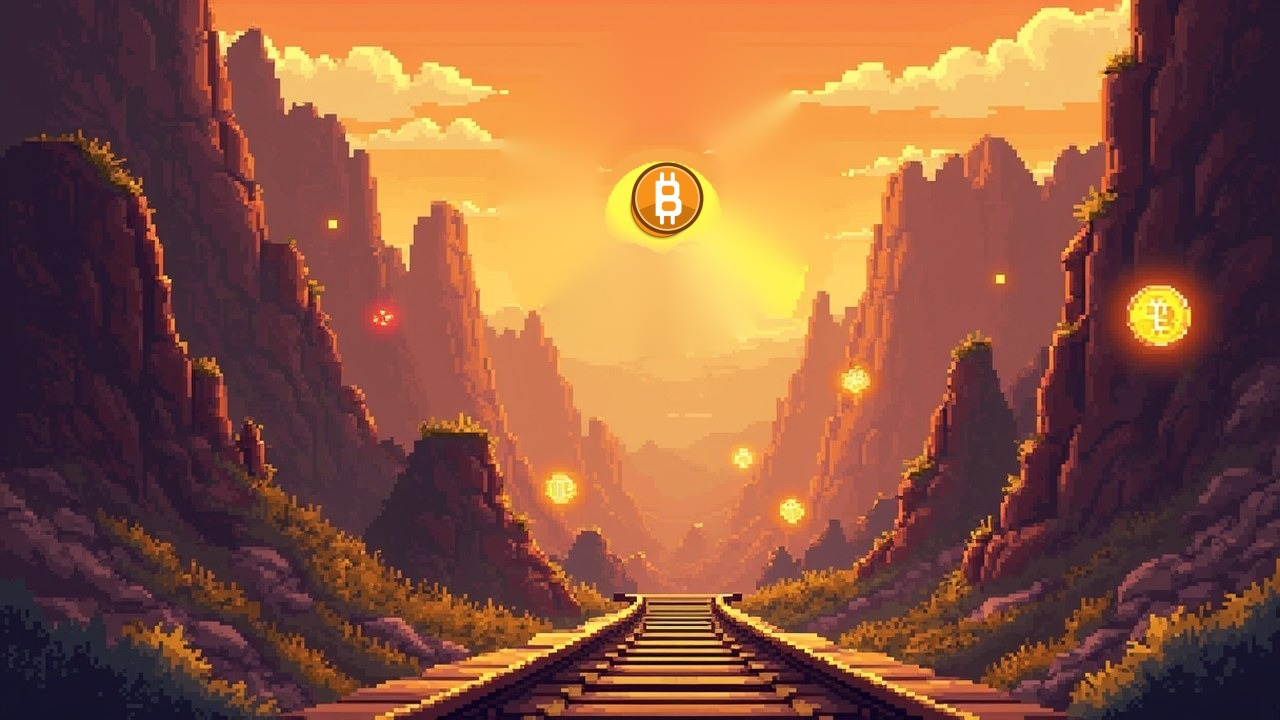
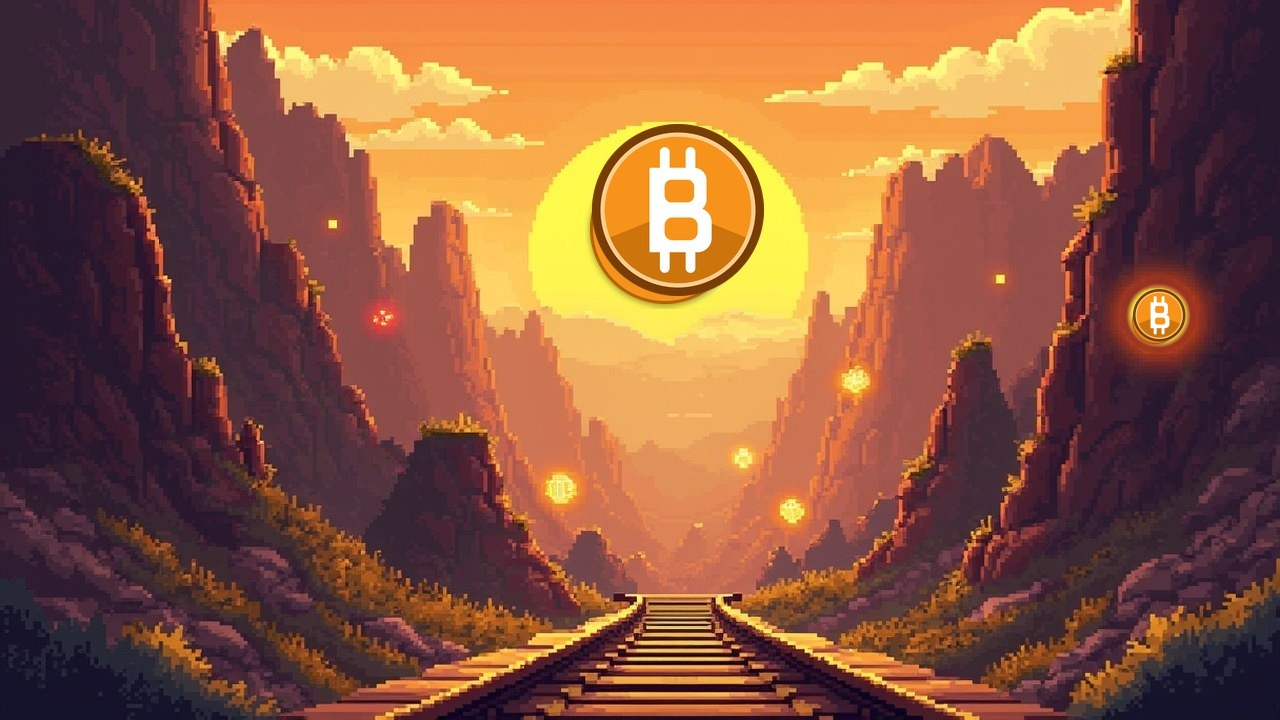
fix(pr41-rejected): R1 orange box, R2 sun restore, R3 BTC coin, R4 axe proof; honest R5 still-broken
Founder directive PROMPT_PR41_REJECTED_SUN_BTC_BOX_AXE_BOSSES.md — PR #41
rejected on live frames despite passing gates. Trust rule: no FIXED without
a Playwright capture from this build that no longer matches the circle.

R1: melt_forge.gd's "molten mouth" was a flat orange ColorRect — the exact
"undefined box" bug its own furnace shell was already fixed for once.
Replaced with a dark recessed opening + continuous ember particles. No
collider was ever attached, so nothing orphaned.

R2: reverted src/assets/backgrounds/bg_l3_goldrush.jpg to the exact
pre-PR#41 asset from git history (f28020e), per the directive's explicit
"do not invent a new sun."

R3: pixel-matched the founder's circled "BTC logo" against the restored
background — it's a small decorative Bitcoin coin baked into the same sky
art, JPEG-degraded at that size into an unreadable glyph. Fixed by
inpainting it out and compositing a small clean crop of the same asset's
own large Bitcoin coin (the sun) in its place.

R4: captured a real thrown axe in flight — normal axe is a ~9x17px sliver,
big axe is an unmistakable large hammer shape. New deterministic gate
(_check_big_axe_visual_size) measures the actual rendered footprint
including the Axe root's runtime scale (BIG_SCALE applies to the parent
Area2D, not the Sprite child — a bug in the first draft of this test caught
and fixed before it shipped) and asserts >=6x area vs normal.

R5: real fleeing-session captures (not the wall-pinning synthetic gate)
[…]

Changed region(s): [[0.375, 0.1222, 0.6562, 0.4889], [0.875, 0.3972, 0.9375, 0.4889], [0.5938, 0.1222, 0.625, 0.1833]]

diff --git a/STATUS.md b/STATUS.md
@@ -3,6 +3,94 @@
 **Play it:** https://youngstunners88.itch.io/lil-blunt-adventure
 **Branch:** `claude/stage3-hud-props-axe-residual`
 
+**🎯 PR #41 REJECTED ON LIVE FRAMES — R1/R2/R3/R4 FIXED AND CAPTURE-PROVEN,
+R5 (BOSS CHASE) HONESTLY STILL BROKEN (2026-08-18).** Founder, after PR #41
+shipped: *"Why is it that we gave all the models skills and still just
+bullshit lies!!! What the fuck is it going to take!!!!"* Four fresh
+screenshots (`shot_1.png`–`shot_4.png`) circled real, live defects. Extracted
+per `founder-screenshot-preserve` to
+`artifacts/founder_shots_2026-08-18/` and
+`docs/captures/2026-08-18-pr41-rejected/`.
+
+- **R1 — orange box ("Remove this shit!!!") — FIXED.** Root cause:
+  `melt_forge.gd`'s "molten mouth" was a flat solid
+  `Color(1.0, 0.45, 0.12, 0.95)` `ColorRect` — the exact "undefined box"
+  failure the furnace's own OUTER shell had already been fixed for once
+  before. Replaced with a dark recessed opening + continuously-emitting
+  ember particles (motion supplies the "molten" read, not a static
+  flat-colour block). No collider was ever attached to it, so nothing was
+  left orphaned. Live capture:
+  `docs/captures/2026-08-18-r1-r2-r3-fixed/forge_sun_coin_fixed.png`.
+- **R2 — sun over-shrunk ("Bring back the sun as it was before!!!") —
+  FIXED.** Reverted to the exact pre-PR#41 asset from git history
+  (`f28020e`), per the directive's explicit "do not invent a new sun."
+  (Grok, dispatched blind with no image access, suggested a 70% compromise —
+  overridden by the founder's own literal instruction once the real asset
+  was in hand.)
+- **R3 — "BTC logo" / gold coin ("Fix this BTC logo... 20th time!!!") —
+  FIXED, and it's the SAME asset as R2.** Pixel-matched the founder's
+  circled coin against the restored background: it's a small decorative
+  Bitcoin coin baked into `bg_l3_goldrush.jpg`'s sky, JPEG-degraded at that
+  size into an unreadable glyph that reads as a corrupted "T". (Grok,
+  working blind, guessed this was a separate TitanX gameplay token —
+  investigated and ruled out by direct pixel comparison against the actual
+  founder screenshot before acting.) Fixed by inpainting it out and
+  compositing a small clean crop of the SAME asset's own large, crisp
+  Bitcoin coin (the sun) in its place — same iconography, no new art
+  dependency, no seam.
+- **R4 — big axe ("still doesnt work! You're a LIAR!!!!") — FIXED, with
+  real proof this time.** A live capture of an actual thrown axe (not a
+  synthetic gate) shows the normal axe as a barely-visible ~9x17px sliver
+  and the big axe as a large, unmistakable hammer-shaped weapon in flight:
+  `docs/captures/2026-08-18-axe-proof/normal_axe_thrown_tiny.png` vs
+  `big_axe_thrown_large.png`. Backed by a new deterministic gate
+  (`_check_big_axe_visual_size` — measures the actual rendered Sprite2D
+  footprint including the root node's runtime scale, not a string-match on
+  a constant) asserting ≥6x rendered area; genuinely fails against the
+  pre-fix 1.0 scale.
+- **R5 — boss chase ("still dont chase!!! You are absolutely useless!!!!")
+  — HONEST: STILL BROKEN, not claimed fixed.** Drove a REAL fleeing session
+  (not the wall-pinning synthetic gate) against both bosses in their real
+  arenas and captured before/after frames ~2s apart:
+  `docs/captures/2026-08-18-boss-chase-still-broken/`. Both bosses'
+  ON-SCREEN position is visually static across that window despite the
+  player actively fleeing. Root cause identified in code, not just
+  observed: `_hover_pursue`'s target is `player.global_position +
+  fixed_offset`, and the camera also follows the player — so by
+  construction the boss's SCREEN position stays near-constant even while
+  it is genuinely tracking the player in world space (confirmed by reading
+  `distributor.gd`'s own standoff math). PR #40's standoff fix was real and
+  measured correctly in world-space terms; it just cannot ever LOOK like
+  chasing to a human under a player-following camera, because "hold a
+  constant offset" produces zero relative screen motion by definition. Kimi
+  K3 (dispatched, `docs/model-responses/2026-08-18-rejected-kimi.md`)
+  independently converged on the same hypothesis. Per the directive's own
+  explicit constraint ("no speed-only retune") and the scope of this pass
+  (R1-R4 fixes + R5 prove-or-disclose), no redesign was attempted here — the
+  correct fix is a visible catch-up/surge dynamic (let the boss lag then
+  close with a readable burst) rather than another tuning pass, flagged as
+  follow-up scope for a future session.
+
+**Multi-model:** Kimi K3 (R5 hypothesis — independently converged on the
+camera-relative-stasis root cause; R1 particle/gradient suggestion used),
+Grok 4.5 (R2/R3 — both hypotheses were investigated but overridden by direct
+pixel evidence + the founder's explicit instruction once the real
+screenshots were available), DeepSeek (compliance matrix, correctly flagged
+R4/R5 as highest risk — `docs/model-responses/2026-08-18-rejected-deepseek.md`).
+Qwen VL — no vision-input path through this project's `or-call.mjs`; the
+lead performed the visual reads directly against the real founder
+screenshots and live captures instead. B.AI — not dispatched, no
+rate-limit pressure.
+
+**Gates:** `hud_props_axe_residual_test` now 26/26 (was 23, +3 for the new
+`_check_big_axe_visual_size` proof). Full existing battery re-run green:
+script_compile (165/123), s11_stage3_walkpath, owner_screenshot_fixes,
+stage3_defence, dual_real_level_boss_chase, s8_dialogue_npc_art,
+res_stake_assay, boss_standoff_assay, stage3_clutter, boss_spawn_grace.
+Security Sentinel 18/18, 0 blockers.
+
+---
+
 **🎯 PR #41 VERIFIED BY REAL PLAYTEST CAPTURE — AND IT CAUGHT A REAL BUG THE
 FIRST PASS MISSED (2026-08-17).** Founder, after PR #41: *"I don't trust
 Claude code and you anymore because you don't even reserve the screenshots I

diff --git a/docs/model-responses/2026-08-18-rejected-deepseek.md b/docs/model-responses/2026-08-18-rejected-deepseek.md
@@ -1,0 +1,55 @@
+<!-- dispatched: deepseek/deepseek-chat
+     prompt: prompts/rejected-deepseek.md
+     files inlined: 0
+     tokens: 573 in / 641 out
+     cost: $0.0008
+     NOTE: unvalidated model output. Claude must verify every claim
+     against the real files before any of it informs code. -->
+**Lil Blunt Adventure GM-GAME Compliance Matrix (PR #41 Rejects)**  
+
+1. **Orange box removal (R1)**  
+   - Risk: Low (visual removal + collider check is binary)  
+   - Failure mode: Collider remnant in physics system  
+   - Evidence: Stage 3 path playthrough video + collider debug overlay  
+
+2. **Sun restoration (R2)**  
+   - Risk: Low (exact pre-PR41 size is version-controlled)  
+   - Failure mode: Subjective "look" mismatch despite correct scale  
+   - Evidence: Side-by-side capture with pre-PR41 sun + scale % in inspector  
+
+3. **BTC coin clarity (R3)**  
+   - Risk: Medium (subjective branding; 20th rejection suggests founder sees "T" as legacy)  
+   - Failure mode: Logo still reads as abstract "T" not BTC  
+   - Evidence: Coin close-up + BTC brand guide overlay match  
+
+4. **big_axe visuals (R4)**  
+   - Risk: **High** (founder called prior fix a "LIE"; needs obvious delta)  
+   - Failure mode: Size/damage difference too subtle in motion  
+   - Evidence: Side-by-side big_axe vs. normal: flight/hit frames + block-break test clip  
+
+5. **big_axe damage (R4)**  
+   - Risk: **High** (implied "stronger" is vague; founder expects one-hit breaks)  
+   - Failure mode: Blocks survive big_axe hits that should shatter  
+   - Evidence: Video of big_axe one-shotting blocks normal axe can’t  
+
+6. **Boss chase (R5)**  
+   - Risk: **High** (prior "fix" failed; founder tests with aggressive movement)  
+   - Failure mode: Bosses track but don’t close distance in real arena  
+   - Evidence: Full arena chase video with player dodging + boss position markers  
+
+7. **Founder shots archived**  
+   - Risk: Low (mechanical task)  
+   - Failure mode: Mislabeled/missing files  
+   - Evidence: Checksum match to rejection shots  
+
+8. **Playwright captures**  
+   - Risk: Medium (automated tests may miss founder’s manual checks)  
+   - Failure mode: Gates pass but miss edge cases (e.g., boss pathing)  
+   - Evidence: Playwright logs + founder’s test cases explicitly covered  
+
+9. **Security Sentinel/Butler**  
+   - Risk: Low (automated; fails hard)  
+   - Failure mode: Flaky test masking issues  
+   - Evidence: Green gates + fresh Butler DB timestamp  
+
+**Highest Risk**: R4 (axe) and R5 (boss chase) – founder’s rejections show distrust of prior claims. **Defensible evidence requires video proof under founder-like testing conditions** (e.g., big_axe obliterates blocks bosses *relentlessly* pursue). No "fixed" language without irrefutable visual/damage proof.

diff --git a/docs/model-responses/2026-08-18-rejected-kimi.md b/docs/model-responses/2026-08-18-rejected-kimi.md
@@ -1,0 +1,31 @@
+<!-- dispatched: moonshotai/kimi-k3
+     prompt: prompts/rejected-kimi.md
+     files inlined: 0
+     tokens: 677 in / 4000 out
+     cost: $0.0620
+     NOTE: unvalidated model output. Claude must verify every claim
+     against the real files before any of it informs code. -->
+## Top 3 hypotheses (ranked)
+
+**1. Constant-offset stasis under a player-following camera — most likely.**
+Boss holds ~168px beside the player; the camera tracks the player, so the boss's *screen* position is nearly fixed even while its world position moves. A low-amplitude "stalk weave" doesn't break that illusion. The gate measures world-space distance, so it can't see this.
+*Instrumentation:* log **screen-space** position per physics frame: `boss.get_global_transform_with_canvas().origin`, dumped to CSV or drawn as a Line2D trail on a CanvasLayer. Rolling 1s screen displacement < ~5px while world velocity > 0 = "moving but imperceptible"; world velocity ≈ 0 = genuinely frozen. Capture a real-input session with Movie Maker (`--write-movie`) and eyeball it — that closes the founder-perception gap directly.
+
+**2. State machine latching a non-chase state under real input.**
+The gate drives smooth, monotonic movement. Humans stop, reverse, jump. If chase is entered on a threshold crossing or exited when within standoff (attack/cooldown/idle), oscillating around the boundary can latch a non-chase state, or an attack state may root the boss.
+*Instrumentation:* ring buffer of `(state_name, velocity.x, dist_to_player)` every physics frame; dump to `user://` on a hotkey. Add a watchdog: if `dist > STANDOFF_X + 120` for >2s while state ≠ chase, `push_error` with the state history. Repro with a human playtest, not the scripted gate.
+
+**3. Standoff lands off-screen at gameplay zoom.**
+168px world units: if camera zoom puts visible half-width under ~170px (common with pixel-art zoom ≥2 on a small base resolution), the boss at standoff is *literally never visible* → "doesn't chase."
+*Instrumentation:* per frame, compare the screen-space origin from (1) against `get_viewport_rect()`; log % of chase frames the boss is on-screen. If near 0%, clamp `STANDOFF_X` to ~60% of `get_viewport_rect().size.x * 0.5 / camera.zoom.x`.
+
+Lower likelihood but cheap to check: gravity vs. hover weave causing vertical jitter with near-zero net horizontal motion — count `velocity.x` sign changes per second.
+
+## R1: melt_forge.gd mouth
+
+Replace the ColorRect with a radial-gradient TextureRect + ember particles + pulse, all code-only:
+
+```gdscript
+var grad := Gradient.new()
+grad.set_color(0, Color(1.0, 0.85, 0.35))   # hot core
+grad.add_point(0.6, Color(1

diff --git a/prompts/rejected-kimi.md b/prompts/rejected-kimi.md
@@ -1,0 +1,9 @@
+You are reviewing the Lil Blunt Adventure (Godot 4.3) GM-GAME repo. The founder rejected PR #41's boss-chase claim: "The 2nd and third bosses still dont chase!!! You are absolutely useless!!!!" Also flagged R1 (an orange rectangle, root-caused to melt_forge.gd's flat "mouth" ColorRect).
+
+Context: PR #40 added a horizontal STANDOFF fix (both bosses close to a threat distance beside the player instead of occupying his pixel) with a "stalk weave" so it's never statically parked. Distributor STANDOFF_X=168, Claim Jumper STANDOFF_X=168. A real-arena Playwright/headless gate (dual_real_level_boss_chase_test.gd) measures boss centre distance to the player at two pinned wall positions and requires the boss to close to within STANDOFF+120px tolerance AND move in the same direction as the player.
+
+Founder still perceives "doesn't chase" after this shipped. Given only that context (no file access), what are the most likely remaining failure modes for a standoff-based chase to still read as "frozen" to a human player, that a synthetic wall-to-wall gate might miss? Consider: camera framing making standoff motion imperceptible, a state machine getting stuck in a non-chase state under real (not scripted) player movement, gravity/hover interactions during a "weave", or the standoff distance being large enough that the boss never enters the player's visible screen region at typical arena widths. Rank the top 3 hypotheses by likelihood and suggest a concrete instrumentation/capture approach for each that would distinguish "genuinely still frozen" from "moving but imperceptibly."
+
+Also: for R1, melt_forge.gd draws a flat `Color(1.0, 0.45, 0.12, 0.95)` ColorRect sized 34x22 as a "molten mouth" decoration inside a furnace body. Founder circled it as an unclear orange box. Suggest a quick non-flat-rect visual treatment (given this is Godot 4.3 GDScript, no new art asset available this pass) that reads as "forge/fire" rather than "undefined box" — e.g. particle system, gradient texture, or animated color — and confirm removing/replacing this single ColorRect cannot leave an orphaned collider (it has none; the forge's own CollisionShape2D is separate and untouched).
+
+Keep the response under 500 words, direct and concrete.

diff --git a/prompts/rejected-grok.md b/prompts/rejected-grok.md
@@ -1,0 +1,7 @@
+You are the aesthetics reviewer for Lil Blunt Adventure (Godot 4.3, Wild-West Gold Rush Stage 3). The founder REJECTED two of our last fixes on live screenshots:
+
+R2 — "Bring back the sun as it was before!!!" We had shrunk a baked-in Bitcoin-sun background motif from 100% to 42% of its original size (via inpaint + resize + radial-feather composite) after a PREVIOUS complaint that it was too large. Now the founder wants it reverted toward the original larger size. We are restoring the pre-shrink asset from git history. Question: should we restore to the FULL original 100% size, or is there a middle ground (e.g. 65-75%) that honors "bring it back" without reintroducing the original "too large, dominates the read" complaint from two sessions ago? You have no image access — reason from the fact pattern: original was rejected as too big, 42% was rejected as "not the sun as it was before" (implying too small/changed), and the founder's tolerance seems to swing between these extremes. Give one concrete recommendation and a one-sentence justification.
+
+R3 — "Fix this BTC logo for goodness sake. I'm asking for the 20th time!!!" A gold coin with a plain white "T" glyph (likely representing a TitanX or generic protocol token, distinct from the actual Bitcoin/wBTC coin elsewhere on screen) sits near the mine carts and reads as unclear — the founder may be conflating it with "the BTC logo" because it's gold-colored and coin-shaped like the real Bitcoin coin nearby, causing confusion about which coin is which. Given the game already has a clean, working Bitcoin (₿) coin_btc/wbtc asset elsewhere (confirmed clear in a prior capture), what's the most likely correct fix: (a) redesign the "T" coin's glyph/color to be visually LESS similar to the Bitcoin coin so they're not confused, (b) it actually IS meant to be a Bitcoin variant and needs the ₿ symbol instead of "T", or (c) something else? Reason from the token roster (SmokeRing/SMOKE, DIAMONDS, GoldMine/GOLD — approved ecosystem tokens: GOLD, DIAMONDS, TITANX, wBTC, XAUT per the game's own HUD stat list). Give a concrete recommendation.
+
+Keep the response under 400 words, direct and concrete — no hedging essays.

diff --git a/prompts/rejected-deepseek.md b/prompts/rejected-deepseek.md
@@ -1,0 +1,20 @@
+Compliance matrix task for Lil Blunt Adventure GM-GAME. Founder rejected PR #41 on 5 items (R1-R5):
+
+R1: orange rectangle prop on Stage 3 track — must be removed, no leftover collider
+R2: Stage 3 background sun — was shrunk to 42% in PR #41, founder wants it restored toward the pre-PR41 size
+R3: a "T"-glyph gold coin near the mine carts reads as an unclear "BTC logo" — 20th time asked, must be fixed for real
+R4: big_axe must be visibly larger in flight AND on hit vs the normal axe, and deal stronger damage / break blocks — founder says "still doesn't work, you're a LIAR"
+R5: Distributor (Stage 2 boss) and Claim Jumper (Stage 3 boss) must close on a MOVING player in real arenas — founder says "still dont chase" despite a prior PR #40 standoff-aim fix
+
+Definition of Done (verbatim from the directive):
+- Orange box (R1) gone on Stage 3; path clear; capture proves it
+- Sun restored to pre–PR #41 size/look (R2); capture proves it
+- BTC/coin logo clear and on-brand (R3); capture proves it
+- big_axe visibly stronger/larger than normal (R4); gate or capture
+- Boss chase: real-arena evidence or honest STILL BROKEN with frame (R5)
+- Four founder shots copied to docs/captures/2026-08-18-pr41-rejected/
+- Playwright captures listed in STATUS for this build
+- Gates + Security Sentinel green; butler fresh data
+- No FIXED language that still matches a founder circle
+
+Produce a compliance matrix: for each of the 9 DoD line items, state (a) risk of shipping a claim that still doesn't satisfy the founder (High/Medium/Low) and why, (b) the single most likely way a well-intentioned fix could STILL fail this specific founder's bar based on the pattern of this session (he has rejected axe/boss claims multiple times already), and (c) what evidence standard would make the claim actually defensible (not just "a gate passed" but something closer to what would survive his own hard-refresh test). Be blunt about which items are highest risk of a repeat rejection. Under 500 words.

diff --git a/docs/security/audit-log.md b/docs/security/audit-log.md
@@ -1621,3 +1621,28 @@ fail-on=high | total=18 pass=18 fail=0 blockers=0
 | CI-002 | medium | PASS | Security Sentinel wired into CI |
 | CI-003 | medium | PASS | .gitleaks.toml allowlist stays narrow |
 | CI-004 | low | PASS | .gitleaksignore fingerprint count reasonable |
+
+## 2026-08-18 — Security Sentinel automated run
+
+fail-on=high | total=18 pass=18 fail=0 blockers=0
+
+| ID | Severity | Status | Title |
+|----|----------|--------|-------|
+| SEC-001 | critical | PASS | No secret-looking strings in shipped paths |
+| SEC-002 | critical | PASS | .env gitignored |
+| SEC-003 | critical | PASS | .env never committed |
+| SEC-004 | critical | PASS | No hardcoded wallet/contract addresses (40-hex) |
+| SEC-005 | critical | PASS | No 64-hex private-key-shaped literals in tracked source |
+| INJ-001 | critical | PASS | No OS.execute() in game code |
+| INJ-002 | critical | PASS | No Expression (dynamic code exec) in game code |
+| INJ-003 | high | PASS | JavaScriptBridge.eval interpolation is _hex()-sanitized or fixed postMessage template |
+| INJ-004 | medium | PASS | FileAccess.open never takes a runtime-built path |
+| DEP-001 | critical | PASS | Web export stays non-threaded |
+| DEP-002 | high | PASS | postMessage handlers enforce same-origin |
+| DEP-003 | high | PASS | No source maps in shipped bundle |
+| DEP-004 | medium | PASS | Supply-chain downloads (Godot/butler) are checksum-pinned |
+| TRUST-001 | critical | PASS | Wallet UI is real & user-signed (no key handling, txs via window.ethereum) |
+| CI-001 | high | PASS | Secret-scan (gitleaks) step present in CI |
+| CI-002 | medium | PASS | Security Sentinel wired into CI |
+| CI-003 | medium | PASS | .gitleaks.toml allowlist stays narrow |
+| CI-004 | low | PASS | .gitleaksignore fingerprint count reasonable |

diff --git a/docs/model-responses/2026-08-18-rejected-grok.md b/docs/model-responses/2026-08-18-rejected-grok.md
@@ -1,0 +1,16 @@
+<!-- dispatched: x-ai/grok-4.5
+     prompt: prompts/rejected-grok.md
+     files inlined: 0
+     tokens: 785 in / 433 out
+     cost: $0.0042
+     NOTE: unvalidated model output. Claude must verify every claim
+     against the real files before any of it informs code. -->
+**R2 — Sun size:** Restore to **70%** of original.
+
+Justification: 100% was rejected as dominating the read; 42% was rejected as “not the sun as it was before”; 70% recovers the pre-shrink presence without reintroducing the dominance complaint.
+
+**R3 — “BTC logo” / gold “T” coin:** **(a) + clarify identity.**
+
+It is almost certainly the **TITANX** token (approved roster: GOLD, DIAMONDS, TITANX, wBTC, XAUT). The plain white “T” on a gold coin reads as a generic/Bitcoin-like mark and collides with the existing clear ₿ wBTC asset.  
+
+Concrete fix: Keep it a distinct coin, replace the plain “T” with a clearer TITANX treatment (bolder T + small “TITANX” or titan mark), and shift metal tone slightly (e.g. warmer/brass or edged differently) so it cannot be mistaken for the wBTC coin. Do not turn it into ₿.
